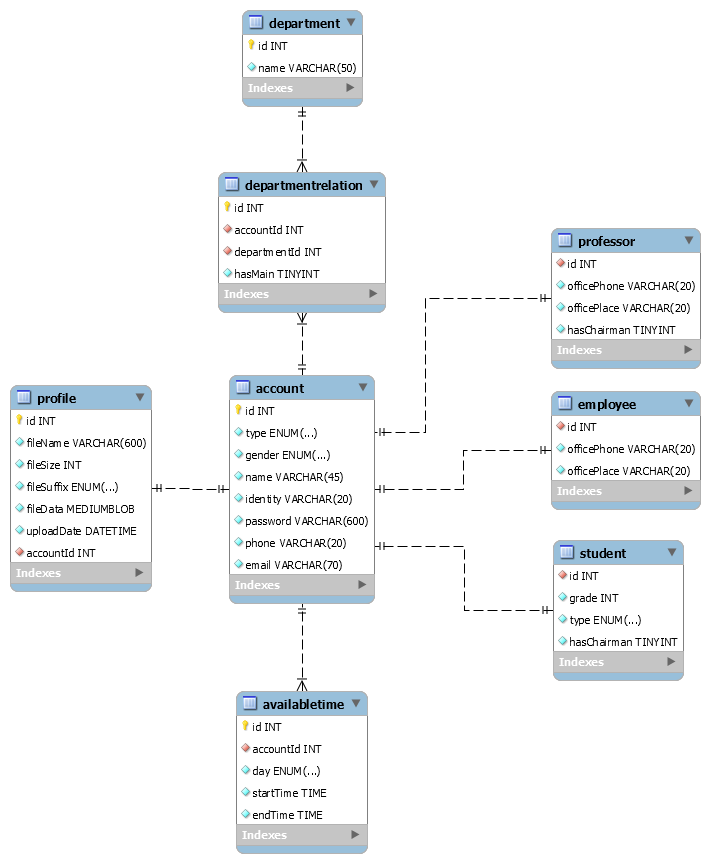
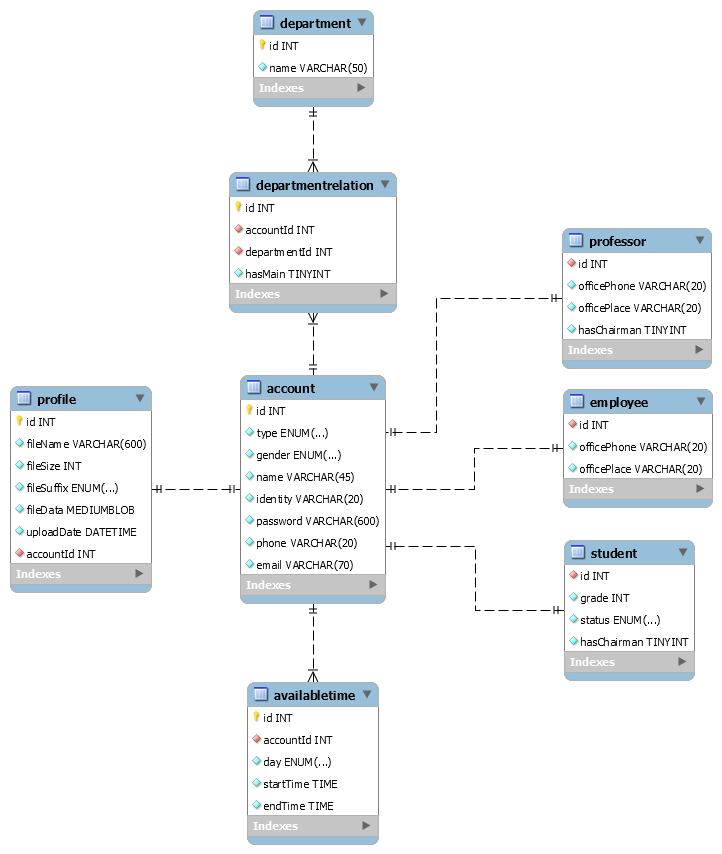
Update AccountAPI - Database Structure 데이터베이스에서 변한 내용은 사실 크게 없는데 학생의 type 을 status 로 바뀌었음.

diff --git a/AccountAPI/src/main/java/net/skhu/mentoring/domain/Student.java b/AccountAPI/src/main/java/net/skhu/mentoring/domain/Student.java
@@ -2,8 +2,9 @@ package net.skhu.mentoring.domain;
 
 import lombok.Data;
 import lombok.EqualsAndHashCode;
+import lombok.ToString;
 import net.skhu.mentoring.enumeration.Gender;
-import net.skhu.mentoring.enumeration.StudentType;
+import net.skhu.mentoring.enumeration.StudentStatus;
 import net.skhu.mentoring.enumeration.UserType;
 
 import javax.persistence.Column;
@@ -11,10 +12,15 @@ import javax.persistence.DiscriminatorValue;
 import javax.persistence.Entity;
 import javax.persistence.EnumType;
 import javax.persistence.Enumerated;
+import javax.persistence.FetchType;
+import javax.persistence.OneToMany;
 import java.io.Serializable;
+import java.util.ArrayList;
+import java.util.List;
 
 @Data
-@EqualsAndHashCode(callSuper = true)
+@EqualsAndHashCode(callSuper = true, exclude = {"departmentRelations"})
+@ToString(exclude = {"departmentRelations"})
 @Entity
 @DiscriminatorValue(UserType.STUDENT)
 public class Student extends Account implements Serializable {
@@ -24,11 +30,12 @@ public class Student extends Account implements Serializable {
         super();
     }
 
-    public Student(Long id, Gender gender, String name, String identity, String password, String phone, String email, Integer grade, StudentType type, Boolean hasChairman){
-        super(id, gender, name, identity, password, phone, email);
+    public Student(Long id, String type, Gender gender, String name, String identity, String password, String phone, String email, Integer grade, StudentStatus status, Boolean hasChairman){
+        super(id, type, gender, name, identity, password, phone, email);
         this.grade = grade;
-        this.type = type;
+        this.status = status;
         this.hasChairman = hasChairman;
+        this.departmentRelations = new ArrayList<DepartmentRelation>();
     }
 
     @Column(nullable = false)
@@ -36,8 +43,11 @@ public class Student extends Account implements Serializable {
 
     @Column(nullable = false)
     @Enumerated(value = EnumType.STRING)
-    private StudentType type;
+    private StudentStatus status;
 
     @Column(nullable = false)
     private Boolean hasChairman;
+
+    @OneToMany(mappedBy = "account", fetch = FetchType.LAZY)
+    private List<DepartmentRelation> departmentRelations;
 }

diff --git a/AccountAPI/src/main/java/net/skhu/mentoring/domain/Professor.java b/AccountAPI/src/main/java/net/skhu/mentoring/domain/Professor.java
@@ -2,16 +2,22 @@ package net.skhu.mentoring.domain;
 
 import lombok.Data;
 import lombok.EqualsAndHashCode;
+import lombok.ToString;
 import net.skhu.mentoring.enumeration.Gender;
 import net.skhu.mentoring.enumeration.UserType;
 
 import javax.persistence.Column;
 import javax.persistence.DiscriminatorValue;
 import javax.persistence.Entity;
+import javax.persistence.FetchType;
+import javax.persistence.OneToMany;
 import java.io.Serializable;
+import java.util.ArrayList;
+import java.util.List;
 
 @Data
-@EqualsAndHashCode(callSuper = true)
+@EqualsAndHashCode(callSuper = true, exclude = {"departmentRelations"})
+@ToString(exclude = {"departmentRelations"})
 @Entity
 @DiscriminatorValue(UserType.PROFESSOR)
 public class Professor extends Account implements Serializable {
@@ -21,11 +27,12 @@ public class Professor extends Account implements Serializable {
         super();
     }
 
-    public Professor(Long id, Gender gender, String name, String identity, String password, String phone, String email, String officePhone, String officePlace, Boolean hasChairman){
-        super(id, gender, name, identity, password, phone, email);
+    public Professor(Long id, String type, Gender gender, String name, String identity, String password, String phone, String email, String officePhone, String officePlace, Boolean hasChairman){
+        super(id, type, gender, name, identity, password, phone, email);
         this.officePhone = officePhone;
         this.officePlace = officePlace;
         this.hasChairman = hasChairman;
+        this.departmentRelations = new ArrayList<DepartmentRelation>();
     }
 
     @Column(nullable = false)
@@ -36,4 +43,7 @@ public class Professor extends Account implements Serializable {
 
     @Column(nullable = false)
     private Boolean hasChairman;
+
+    @OneToMany(mappedBy = "account", fetch = FetchType.LAZY)
+    private List<DepartmentRelation> departmentRelations;
 }

diff --git a/AccountAPI/src/main/java/net/skhu/mentoring/domain/Employee.java b/AccountAPI/src/main/java/net/skhu/mentoring/domain/Employee.java
@@ -2,16 +2,22 @@ package net.skhu.mentoring.domain;
 
 import lombok.Data;
 import lombok.EqualsAndHashCode;
+import lombok.ToString;
 import net.skhu.mentoring.enumeration.Gender;
 import net.skhu.mentoring.enumeration.UserType;
 
 import javax.persistence.Column;
 import javax.persistence.DiscriminatorValue;
 import javax.persistence.Entity;
+import javax.persistence.FetchType;
+import javax.persistence.OneToMany;
 import java.io.Serializable;
+import java.util.ArrayList;
+import java.util.List;
 
 @Data
-@EqualsAndHashCode(callSuper = true)
+@EqualsAndHashCode(callSuper = true, exclude = {"departmentRelations"})
+@ToString(exclude = {"departmentRelations"})
 @Entity
 @DiscriminatorValue(UserType.EMPLOYEE)
 public class Employee extends Account implements Serializable {
@@ -21,10 +27,11 @@ public class Employee extends Account implements Serializable {
         super();
     }
 
-    public Employee(Long id, Gender gender, String name, String identity, String password, String phone, String email, String officePhone, String officePlace){
-        super(id, gender, name, identity, password, phone, email);
+    public Employee(Long id, String type, Gender gender, String name, String identity, String password, String phone, String email, String officePhone, String officePlace){
+        super(id, type, gender, name, identity, password, phone, email);
         this.officePhone = officePhone;
         this.officePlace = officePlace;
+        this.departmentRelations = new ArrayList<DepartmentRelation>();
     }
 
     @Column(nullable = false)
@@ -32,4 +39,7 @@ public class Employee extends Account implements Serializable {
 
     @Column(nullable = false)
     private String officePlace;
+
+    @OneToMany(mappedBy = "account", fetch = FetchType.LAZY)
+    private List<DepartmentRelation> departmentRelations;
 }

diff --git a/AccountAPI/src/main/java/net/skhu/mentoring/domain/Account.java b/AccountAPI/src/main/java/net/skhu/mentoring/domain/Account.java
@@ -1,5 +1,6 @@
 package net.skhu.mentoring.domain;
 
+import com.fasterxml.jackson.annotation.JsonIgnore;
 import lombok.AllArgsConstructor;
 import lombok.Data;
 import lombok.EqualsAndHashCode;
@@ -30,6 +31,9 @@ public abstract class Account {
     private Long id;
 
     @Column(nullable = false)
+    private String type;
+
+    @Column(nullable = false)
     @Enumerated(value = EnumType.STRING)
     private Gender gender;
 
@@ -39,6 +43,7 @@ public abstract class Account {
     @Column(nullable = false, unique = true)
     private String identity;
 
+    @JsonIgnore
     @Column(nullable = false)
     private String password;
 

diff --git a/AccountAPI/src/main/java/net/skhu/mentoring/domain/DepartmentRelation.java b/AccountAPI/src/main/java/net/skhu/mentoring/domain/DepartmentRelation.java
@@ -1,5 +1,6 @@
 package net.skhu.mentoring.domain;
 
+import com.fasterxml.jackson.annotation.JsonIgnore;
 import lombok.AllArgsConstructor;
 import lombok.Data;
 import lombok.NoArgsConstructor;
@@ -30,6 +31,7 @@ public class DepartmentRelation implements Serializable {
     @GeneratedValue(strategy = GenerationType.IDENTITY)
     private Long id;
 
+    @JsonIgnore
     @ManyToOne
     @JoinColumn(name = "accountId")
     private Account account;

diff --git a/AccountAPI/src/main/java/net/skhu/mentoring/enumeration/StudentStatus.java b/AccountAPI/src/main/java/net/skhu/mentoring/enumeration/StudentStatus.java
@@ -1,5 +1,5 @@
 package net.skhu.mentoring.enumeration;
 
-public enum StudentType {
+public enum StudentStatus {
     NORMAL, MENTO, MENTI
 }
